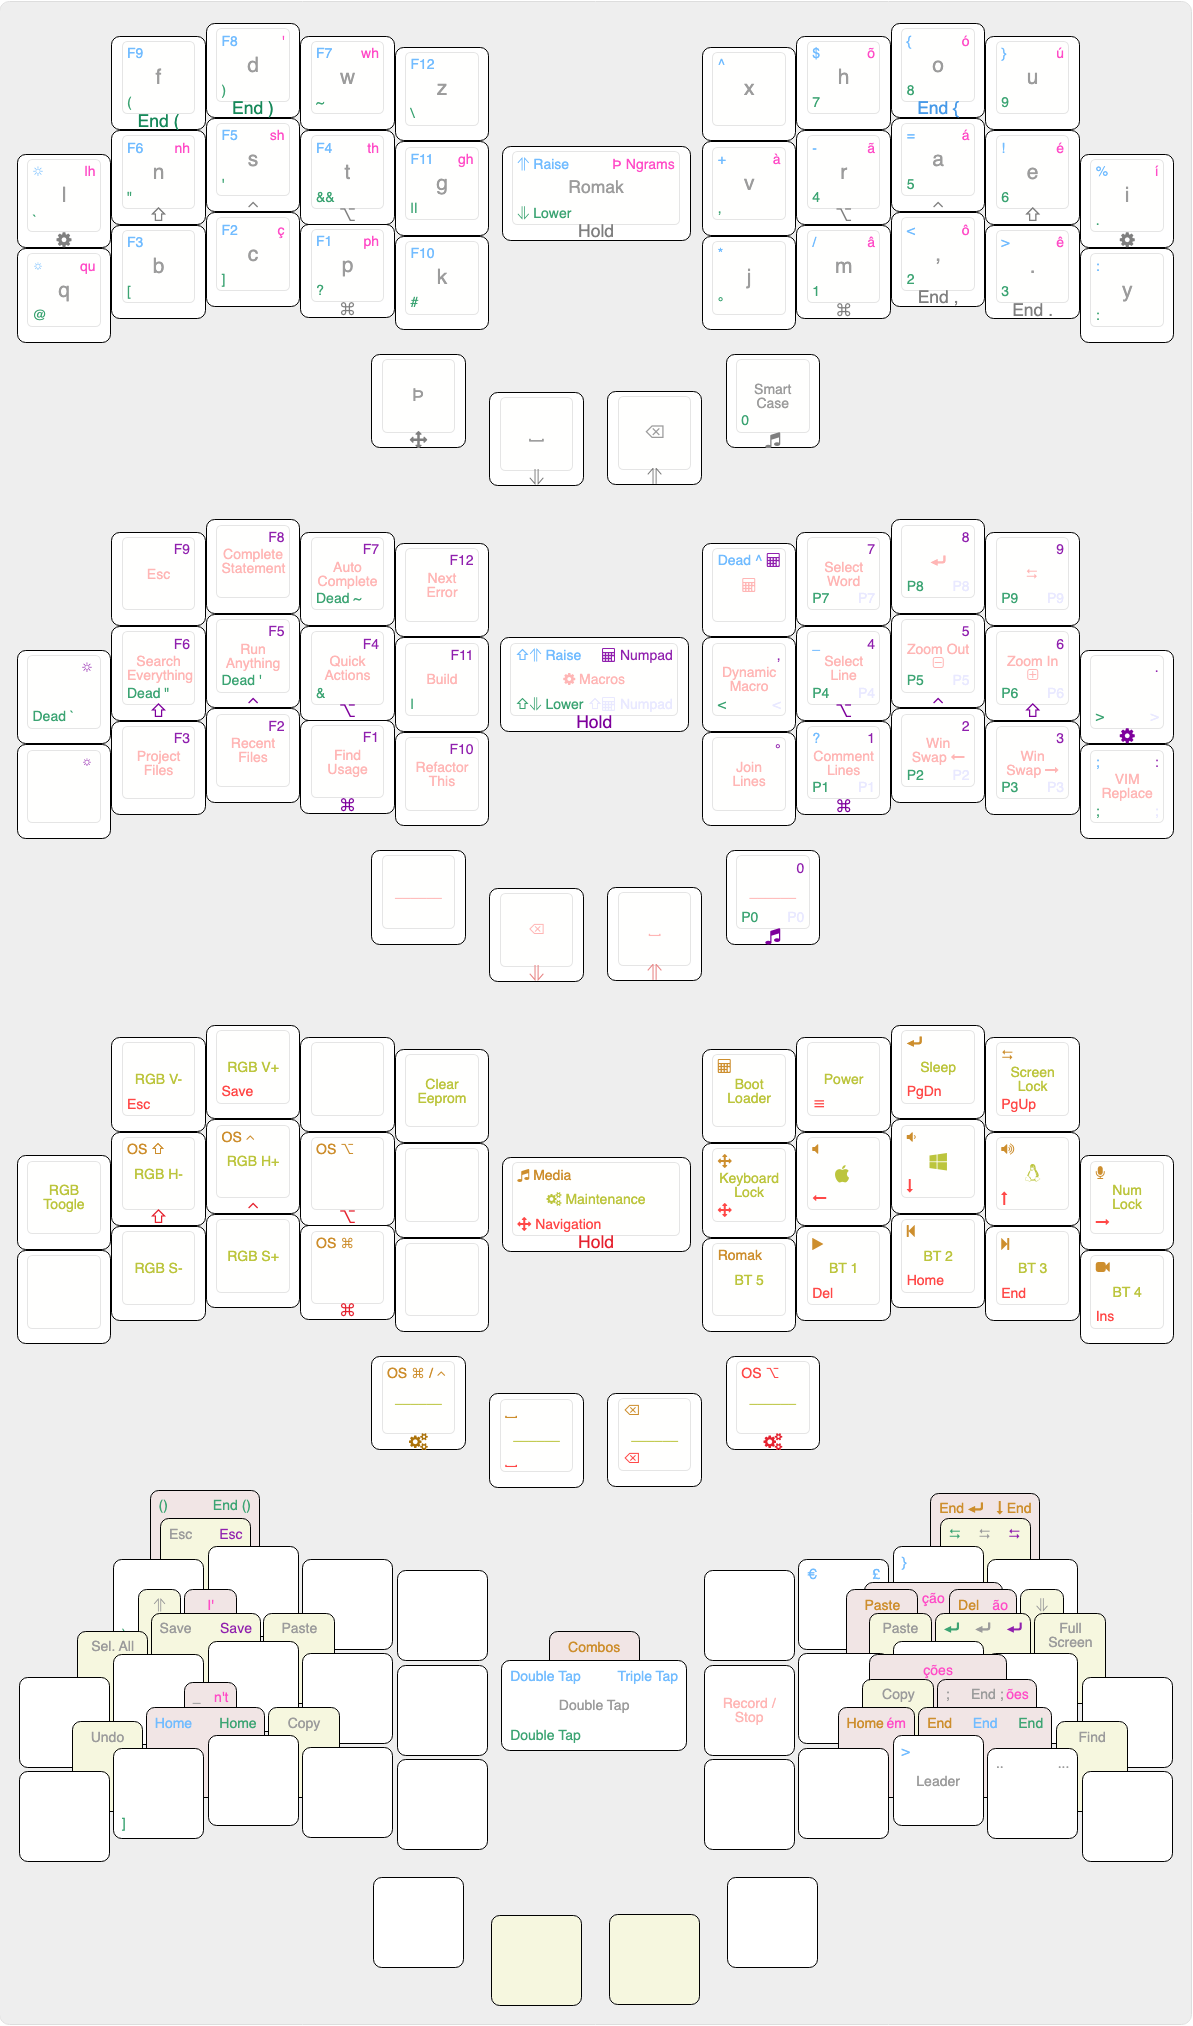
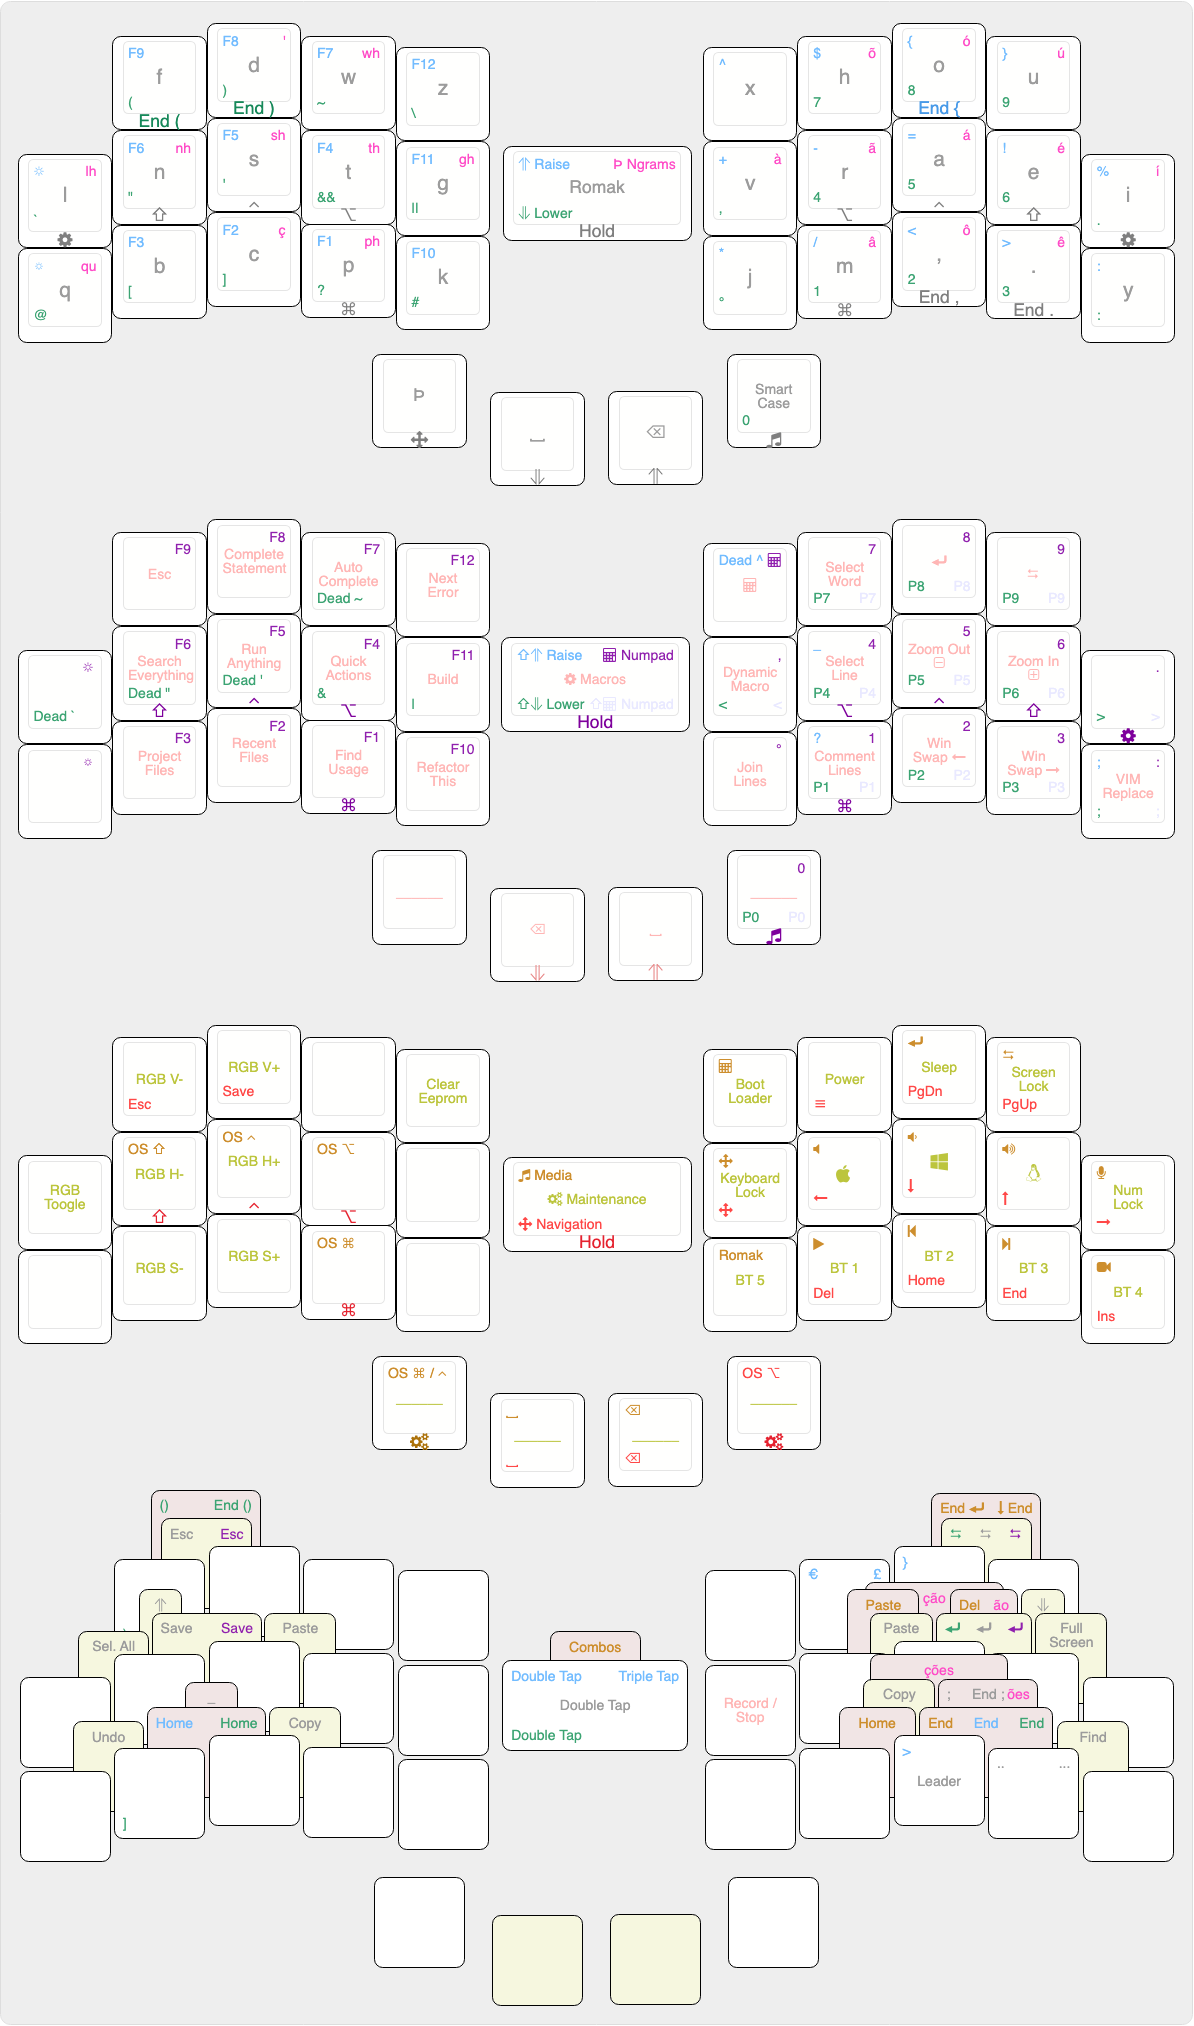
update romak

diff --git a/src/qmk/users/rafaelromao/features/combos.c b/src/qmk/users/rafaelromao/features/combos.c
@@ -31,37 +31,34 @@ const uint16_t PROGMEM r_med_ent_combo[] = {KC_ENT, KC_TAB, COMBO_END};
 
 // N-Grams
 
-const uint16_t PROGMEM l_ng_i_combo[]    = {MC_TH, MC_SQUO, COMBO_END};
-const uint16_t PROGMEM l_ng_nt_combo[]   = {MC_CH, MC_NH, COMBO_END};
-const uint16_t PROGMEM r_ng_ao_combo[]   = {MC_SQ_A, MC_TL_A, COMBO_END};
-const uint16_t PROGMEM r_ng_cao_combo[]  = {MC_CR_A, MC_SQ_A, MC_TL_A, COMBO_END};
-const uint16_t PROGMEM r_ng_em_combo[]   = {MC_CR_E, MC_SQ_E, COMBO_END};
-const uint16_t PROGMEM r_ng_oes_combo[]  = {MC_SQ_E, MC_SQ_I, COMBO_END};
-const uint16_t PROGMEM r_ng_coes_combo[] = {MC_CR_E, MC_SQ_E, MC_SQ_I, COMBO_END};
+const uint16_t PROGMEM r_ng_ao_combo[]   = {MC_SQ_A, MC_SQ_E, COMBO_END};
+const uint16_t PROGMEM r_ng_cao_combo[]  = {MC_TL_A, MC_SQ_A, MC_SQ_E, COMBO_END};
+const uint16_t PROGMEM r_ng_oes_combo[]  = {MC_CR_O, MC_CR_E, COMBO_END};
+const uint16_t PROGMEM r_ng_coes_combo[] = {MC_CR_A, MC_CR_O, MC_CR_E, COMBO_END};
 
 // Base
 
-const uint16_t PROGMEM l_rom_esc_combo[] = {LOW_SPC, KC_Q, KC_U, COMBO_END};
-const uint16_t PROGMEM l_rom_sal_combo[] = {LOW_SPC, KCP_MAC, LSFTT_S, COMBO_END};
-const uint16_t PROGMEM l_rom_rai_combo[] = {LOW_SPC, LSFTT_S, COMBO_END};
-const uint16_t PROGMEM l_rom_sav_combo[] = {LOW_SPC, LSFTT_S, LCTLT_E, COMBO_END};
-const uint16_t PROGMEM l_rom_usc_combo[] = {KC_Y, KC_I, COMBO_END};
-const uint16_t PROGMEM l_rom_pas_combo[] = {LOW_SPC, LCTLT_E, LALTT_D, COMBO_END};
-const uint16_t PROGMEM l_rom_und_combo[] = {LOW_SPC, KC_B, KC_Y, COMBO_END};
-const uint16_t PROGMEM l_rom_cop_combo[] = {LOW_SPC, KC_I, LGUIT_T, COMBO_END};
+const uint16_t PROGMEM l_rom_esc_combo[] = {LOW_SPC, KC_F, KC_D, COMBO_END};
+const uint16_t PROGMEM l_rom_sal_combo[] = {LOW_SPC, KCL_MAC, LSFTT_N, COMBO_END};
+const uint16_t PROGMEM l_rom_rai_combo[] = {LOW_SPC, LSFTT_N, COMBO_END};
+const uint16_t PROGMEM l_rom_sav_combo[] = {LOW_SPC, LSFTT_N, LCTLT_S, COMBO_END};
+const uint16_t PROGMEM l_rom_usc_combo[] = {KC_B, KC_C, COMBO_END};
+const uint16_t PROGMEM l_rom_pas_combo[] = {LOW_SPC, LCTLT_S, LALTT_T, COMBO_END};
+const uint16_t PROGMEM l_rom_und_combo[] = {LOW_SPC, KC_Q, KC_B, COMBO_END};
+const uint16_t PROGMEM l_rom_cop_combo[] = {LOW_SPC, KC_C, LGUIT_P, COMBO_END};
 
-const uint16_t PROGMEM r_rom_tab_combo[] = {RAI_BSP, KC_O, KC_V, COMBO_END};
-const uint16_t PROGMEM r_rom_pas_combo[] = {RAI_BSP, RALTT_N, RCTLT_A, COMBO_END};
-const uint16_t PROGMEM r_rom_ent_combo[] = {RAI_BSP, RCTLT_A, RSFTT_R, COMBO_END};
-const uint16_t PROGMEM r_rom_low_combo[] = {RAI_BSP, RSFTT_R, COMBO_END};
-const uint16_t PROGMEM r_rom_ful_combo[] = {RAI_BSP, RSFTT_R, KCC_MAC, COMBO_END};
+const uint16_t PROGMEM r_rom_tab_combo[] = {RAI_BSP, KC_O, KC_U, COMBO_END};
+const uint16_t PROGMEM r_rom_pas_combo[] = {RAI_BSP, RALTT_R, RCTLT_A, COMBO_END};
+const uint16_t PROGMEM r_rom_ent_combo[] = {RAI_BSP, RCTLT_A, RSFTT_E, COMBO_END};
+const uint16_t PROGMEM r_rom_low_combo[] = {RAI_BSP, RSFTT_E, COMBO_END};
+const uint16_t PROGMEM r_rom_ful_combo[] = {RAI_BSP, RSFTT_E, KCI_MAC, COMBO_END};
 const uint16_t PROGMEM r_rom_cop_combo[] = {RAI_BSP, RGUIT_M, TD_COMM, COMBO_END};
 const uint16_t PROGMEM r_rom_sco_combo[] = {TD_COMM, TD_DOTD, COMBO_END};
-const uint16_t PROGMEM r_rom_fin_combo[] = {RAI_BSP, TD_DOTD, KC_W, COMBO_END};
+const uint16_t PROGMEM r_rom_fin_combo[] = {RAI_BSP, TD_DOTD, KC_Y, COMBO_END};
 
 // Reset
 
-const uint16_t PROGMEM rom_reset_combo[] = {KCP_MAC, KC_B, KCC_MAC, KC_W, COMBO_END};
+const uint16_t PROGMEM rom_reset_combo[] = {KCL_MAC, KC_Q, KCI_MAC, KC_Y, COMBO_END};
 
 // Secret
 
@@ -70,9 +67,8 @@ const uint16_t PROGMEM secret_1_combo[] = {SEC_1, SEC_2, SEC_3, SEC_4, COMBO_END
 combo_t key_combos[COMBO_COUNT] = {
     COMBO(l_num_esc_combo, KC_ESC),     COMBO(l_num_sav_combo, MC_SAVE), COMBO(r_num_ent_combo, KC_ENT),
     COMBO(l_low_par_combo, TD_PARN),    COMBO(r_low_tab_combo, KC_TAB),  COMBO(r_low_ent_combo, KC_ENT),
-    COMBO(l_ng_i_combo, MC_I),          COMBO(l_ng_nt_combo, MC_NT),     COMBO(r_ng_ao_combo, MC_AO),
-    COMBO(r_ng_cao_combo, MC_CAO),      COMBO(r_ng_oes_combo, MC_OES),   COMBO(r_ng_coes_combo, MC_COES),
-    COMBO(r_ng_em_combo, MC_EM),        COMBO(r_rom_cop_combo, MC_COPY), COMBO(r_rom_sco_combo, TD_SCLE),
+    COMBO(r_ng_ao_combo, MC_AO),        COMBO(r_ng_cao_combo, MC_CAO),   COMBO(r_ng_oes_combo, MC_OES),
+    COMBO(r_ng_coes_combo, MC_COES),    COMBO(r_rom_cop_combo, MC_COPY), COMBO(r_rom_sco_combo, TD_SCLE),
     COMBO(l_rom_usc_combo, KC_UNDS),    COMBO(l_rom_sal_combo, MC_SELC), COMBO(r_rom_pas_combo, MC_PAST),
     COMBO(l_rom_rai_combo, OS_RAI),     COMBO(l_rom_sav_combo, MC_SAVE), COMBO(l_rom_pas_combo, MC_PAST),
     COMBO(l_rom_esc_combo, KC_ESC),     COMBO(r_rom_fin_combo, MC_FIND), COMBO(l_rom_und_combo, MC_UNDO),

diff --git a/src/qmk/users/rafaelromao/definitions/keymap_blocks.h b/src/qmk/users/rafaelromao/definitions/keymap_blocks.h
@@ -5,24 +5,24 @@
 
 // clang-format off
 
-#define ___________________ROMAK_L1____________________ XXXXXXX , KC_Q    , KC_U    , KC_F    , KC_Z
-#define ___________________ROMAK_L2____________________ KCP_MAC , LSFTT_S , LCTLT_E , LALTT_D , KC_G
-#define ___________________ROMAK_L3____________________ KC_B    , KC_Y    , KC_I    , LGUIT_T , KC_X
+#define ___________________ROMAK_L1____________________ XXXXXXX , KC_F    , KC_D    , KC_W    , KC_Z
+#define ___________________ROMAK_L2____________________ KCL_MAC , LSFTT_N , LCTLT_S , LALTT_T , KC_G
+#define ___________________ROMAK_L3____________________ KC_Q    , KC_B    , KC_C    , LGUIT_P , KC_K
 #define ____ROMAK_L4_____                                                             NAV_NG  , LOW_SPC
 
-#define ___________________ROMAK_R1____________________ KC_K    , KC_L    , KC_O    , KC_V    , XXXXXXX
-#define ___________________ROMAK_R2____________________ KC_H    , RALTT_N , RCTLT_A , RSFTT_R , KCC_MAC
-#define ___________________ROMAK_R3____________________ KC_J    , RGUIT_M , TD_COMM , TD_DOTD , KC_W
+#define ___________________ROMAK_R1____________________ KC_X    , KC_H    , KC_O    , KC_U    , XXXXXXX
+#define ___________________ROMAK_R2____________________ KC_V    , RALTT_R , RCTLT_A , RSFTT_E , KCI_MAC
+#define ___________________ROMAK_R3____________________ KC_J    , RGUIT_M , TD_COMM , TD_DOTD , KC_Y
 #define ____ROMAK_R4_____                               RAI_BSP , MED_SFT
 
-#define ___________________NGRAMS_L1___________________ XXXXXXX , MC_QU   , MC_LH   , MC_PH   , XXXXXXX
-#define ___________________NGRAMS_L2___________________ MC_GH   , MC_TH   , MC_SQUO , MC_WH   , XXXXXXX
-#define ___________________NGRAMS_L3___________________ XXXXXXX , MC_CH   , MC_NH   , MC_SH   , XXXXXXX
+#define ___________________NGRAMS_L1___________________ XXXXXXX , XXXXXXX , MC_SQUO , MC_WH   , XXXXXXX
+#define ___________________NGRAMS_L2___________________ MC_LH   , MC_NH   , MC_SH   , MC_TH   , MC_GH
+#define ___________________NGRAMS_L3___________________ MC_QU   , XXXXXXX , MC_SQ_C , MC_PH   , XXXXXXX
 #define ____NGRAMS_L4____                                                             _______ , KC_SPC
 
-#define ___________________NGRAMS_R1___________________ XXXXXXX , MC_CR_O , MC_SQ_O , MC_TL_O , XXXXXXX
-#define ___________________NGRAMS_R2___________________ MC_GV_A , MC_CR_A , MC_SQ_A , MC_TL_A , MC_SQ_C
-#define ___________________NGRAMS_R3___________________ XXXXXXX , MC_CR_E , MC_SQ_E , MC_SQ_I , MC_SQ_U
+#define ___________________NGRAMS_R1___________________ XXXXXXX , MC_TL_O , MC_SQ_O , MC_SQ_U , XXXXXXX
+#define ___________________NGRAMS_R2___________________ MC_GV_A , MC_TL_A , MC_SQ_A , MC_SQ_E , MC_SQ_I
+#define ___________________NGRAMS_R3___________________ XXXXXXX , MC_CR_A , MC_CR_O , MC_CR_E , XXXXXXX
 #define ____NGRAMS_R4____                               KC_BSPC , _______
 
 #define ___________________NUMPAD_L1___________________ XXXXXXX , KC_F9   , KC_F8   , KC_F7   , KC_F12

diff --git a/src/qmk/users/rafaelromao/definitions/keycodes.h b/src/qmk/users/rafaelromao/definitions/keycodes.h
@@ -84,29 +84,22 @@ enum {
 
 // Mod-taps
 
-#define LSFTT_S LSFT_T(KC_S)
-#define RSFTT_L RSFT_T(KC_L)
-#define RSFTT_R RSFT_T(KC_R)
+#define LSFTT_N LSFT_T(KC_N)
+#define RSFTT_E RSFT_T(KC_E)
 #define SF_F6 LSFT_T(KC_F6)
 #define SF_6 RSFT_T(KC_6)
 
-#define LCTLT_D LCTL_T(KC_D)
-#define LCTLT_E LCTL_T(KC_E)
-#define RCTLT_K RCTL_T(KC_K)
+#define LCTLT_S LCTL_T(KC_S)
 #define RCTLT_A RCTL_T(KC_A)
 #define CT_F5 LCTL_T(KC_F5)
 #define CT_5 RCTL_T(KC_5)
 
-#define LALTT_F LALT_T(KC_F)
-#define LALTT_D LALT_T(KC_D)
-#define RALTT_J RALT_T(KC_J)
-#define RALTT_N RALT_T(KC_N)
+#define LALTT_T LALT_T(KC_T)
+#define RALTT_R RALT_T(KC_R)
 #define AL_F4 LALT_T(KC_F4)
 #define AL_4 RALT_T(KC_4)
-#define LA_BSLS LALT_T(KC_BSLS)
 
-#define LGUIT_V LGUI_T(KC_V)
-#define LGUIT_T LGUI_T(KC_T)
+#define LGUIT_P LGUI_T(KC_P)
 #define RGUIT_M RGUI_T(KC_M)
 #define GU_F1 LGUI_T(KC_F1)
 #define GU_1 RGUI_T(KC_1)
@@ -133,13 +126,9 @@ enum {
 #define LOW_BSP LT(_LOWER, KC_BSPC)
 #define RAI_SPC LT(_RAISE, KC_SPC)
 
-#define KCA_MAC LT(_MACROS, KC_A)
-#define KCP_MAC LT(_MACROS, KC_P)
-#define KCC_MAC LT(_MACROS, KC_C)
-#define SCL_MAC LT(_MACROS, KC_SCLN)
-#define BSL_MAC LT(_MACROS, KC_UNDS)
+#define KCL_MAC LT(_MACROS, KC_L)
+#define KCI_MAC LT(_MACROS, KC_I)
 #define DOT_MAC LT(_MACROS, KC_DOT)
-#define PDO_MAC LT(_MACROS, KC_PDOT)
 
 // Layer transitions
 #define OS_LOW OSL(_LOWER)

diff --git a/src/qmk/users/rafaelromao/features/taphold.c b/src/qmk/users/rafaelromao/features/taphold.c
@@ -25,8 +25,8 @@ bool get_tapping_force_hold(uint16_t keycode, keyrecord_t *record) {
 uint16_t get_tapping_term(uint16_t keycode, keyrecord_t *record) {
     switch (keycode) {
         case QK_MOD_TAP ... QK_MOD_TAP_MAX:
-        case KCP_MAC:
-        case KCC_MAC:
+        case KCL_MAC:
+        case KCI_MAC:
         case DOT_MAC:
             return 300;
         default:

diff --git a/src/qmk/users/rafaelromao/config.h b/src/qmk/users/rafaelromao/config.h
@@ -22,7 +22,7 @@
 #define LEADER_NO_TIMEOUT
 
 // Configure combos
-#define COMBO_COUNT 40
+#define COMBO_COUNT 37
 #define COMBO_TERM 30
 #define EXTRA_SHORT_COMBOS
 #define COMBO_STRICT_TIMER
